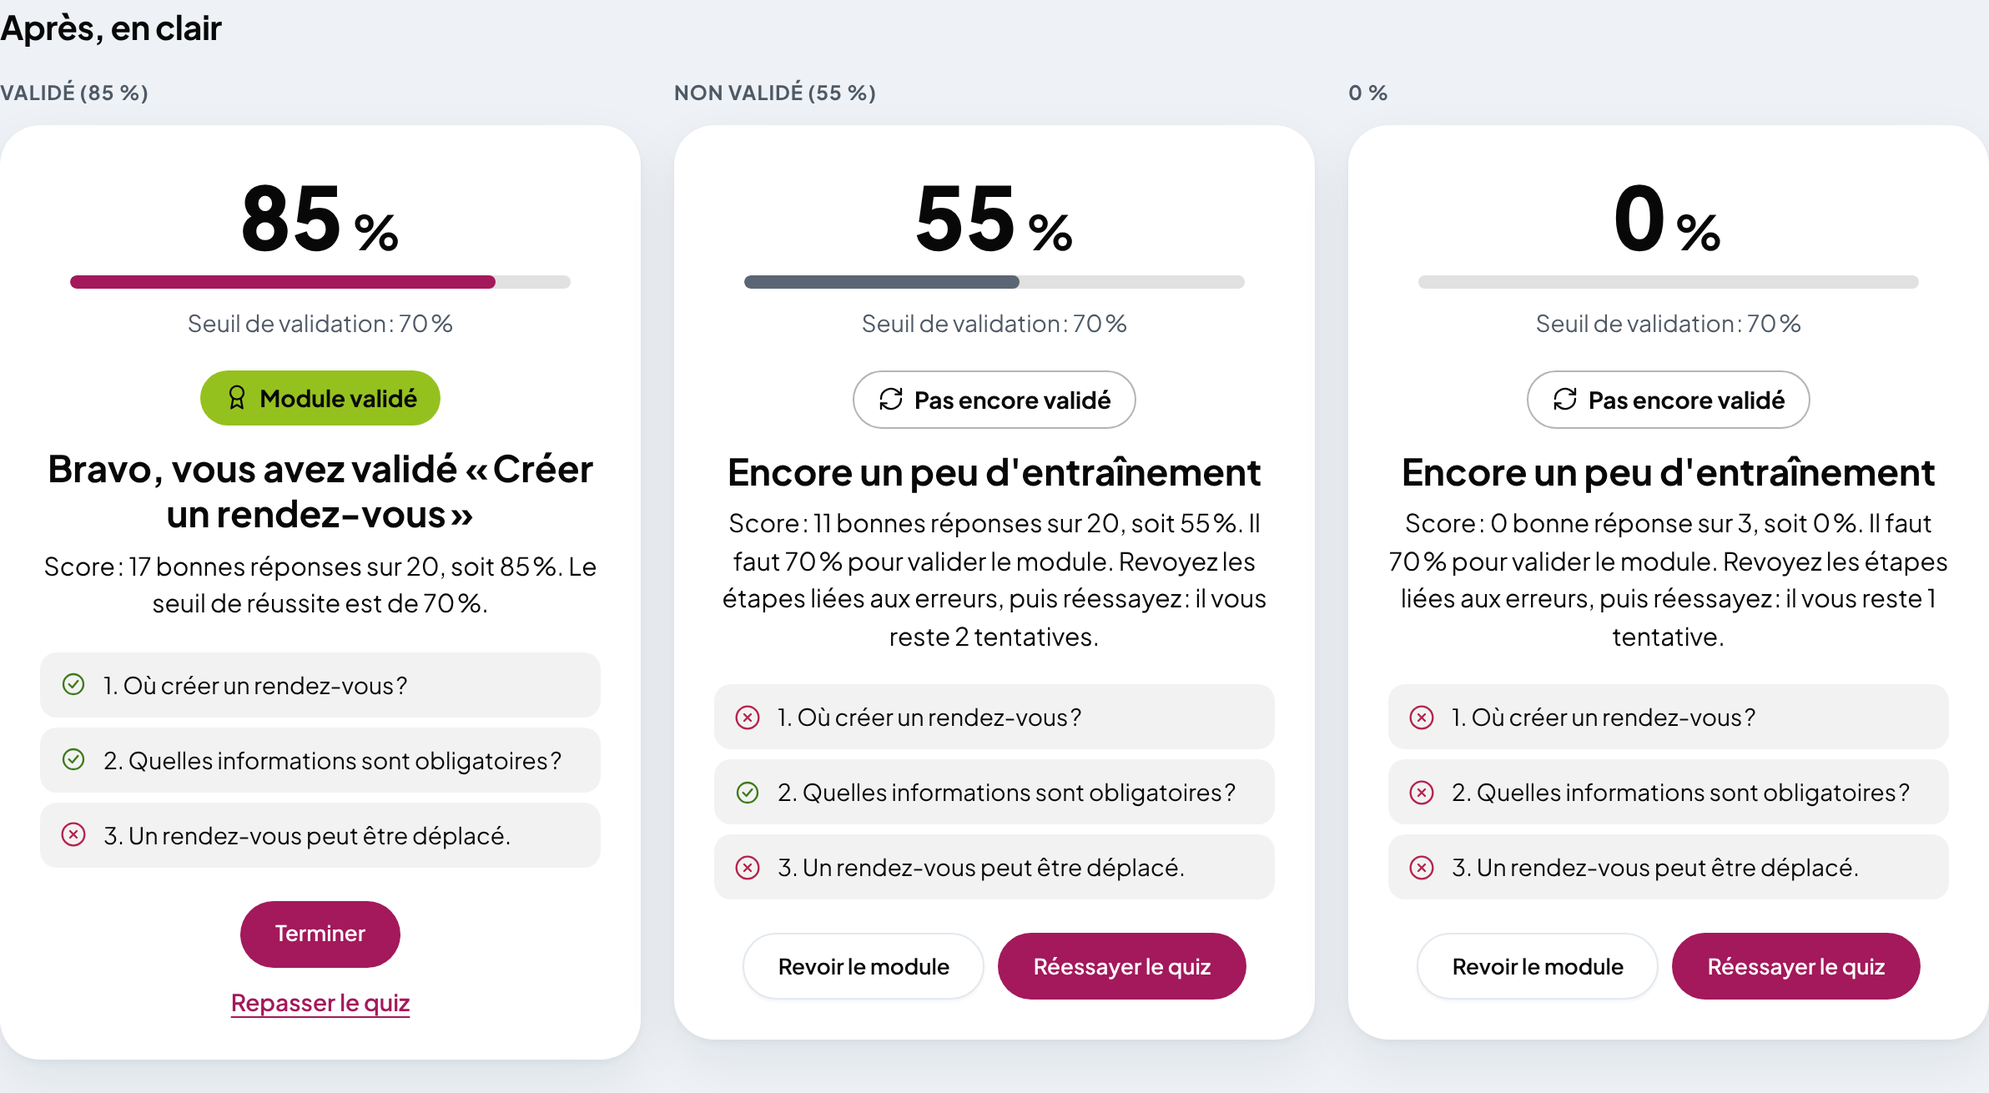
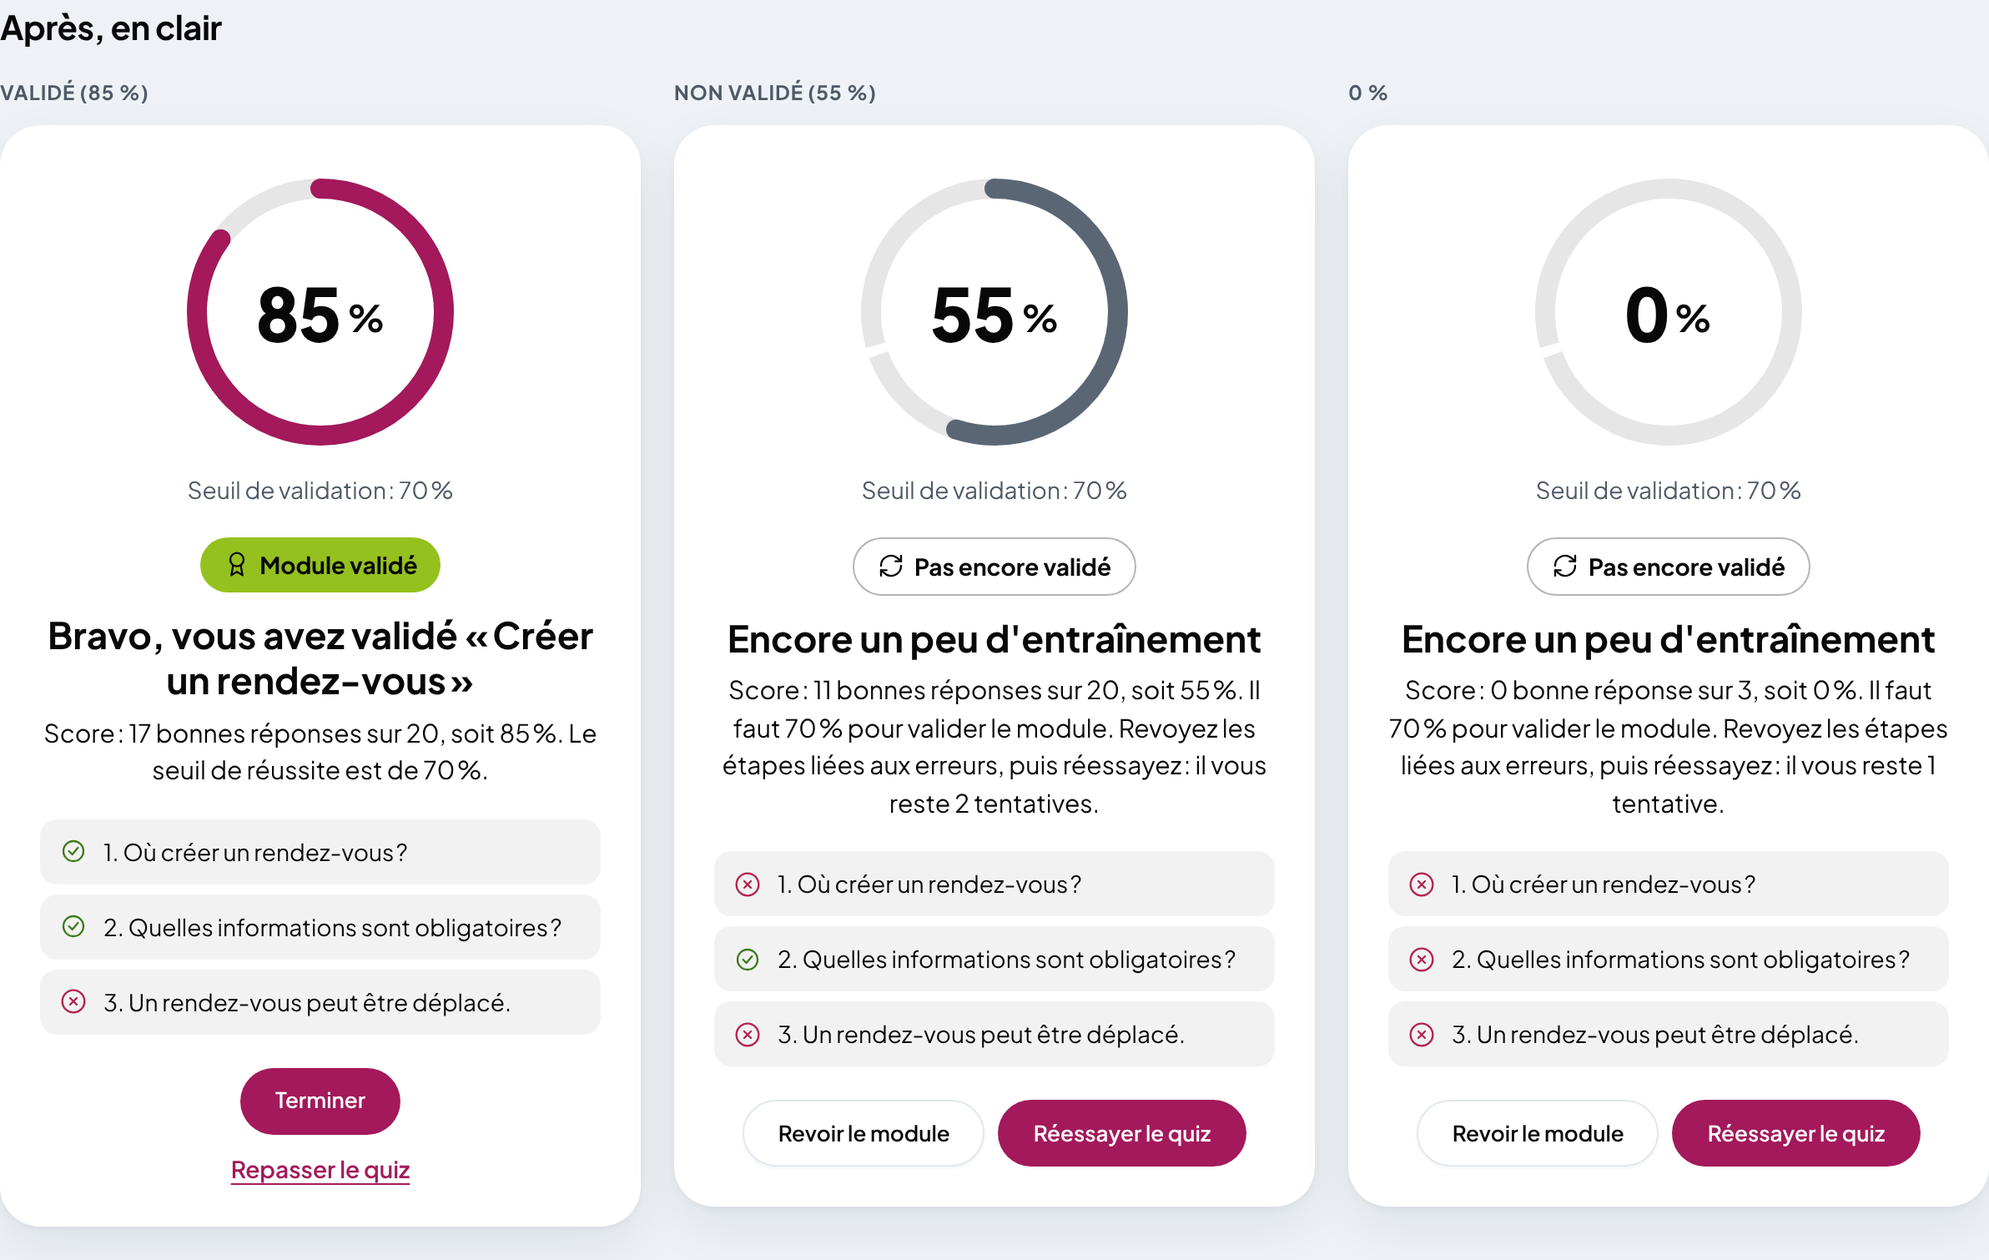
L42 révisé : le cercle de score est conservé et redessiné (arc arrondi, encoche du seuil dans la piste, seuil en texte, plus de trait noir)
Claude-Session: https://claude.ai/code/session_016yn81XNDaqi4emq7ho6CNv

diff --git a/docs/ux/maquettes/refonte/l42-score-quiz.html b/docs/ux/maquettes/refonte/l42-score-quiz.html
@@ -27,15 +27,18 @@
   /* ===== Composant proposé : carte de résultat du lecteur (p-quiz-result) ===== */
   .qr { background: var(--fd-color-surface); color: var(--fd-color-text); border-radius: 24px; box-shadow: var(--fd-shadow-md); padding: 28px 24px 24px; text-align: center; display: flex; flex-direction: column; align-items: center; gap: 0; }
   /* Bloc score : chiffre, barre fine, seuil en texte. Pas de cercle, pas de marqueur. */
-  .qs { width: min(300px, 100%); display: flex; flex-direction: column; align-items: center; gap: 10px; }
-  .qs__num { margin: 0; font-size: 52px; line-height: 1; font-weight: 800; letter-spacing: -.02em; font-variant-numeric: tabular-nums; }
-  .qs__num small { font-size: .55em; font-weight: 700; margin-left: .08em; }
-  .qs__bar { width: 100%; height: 8px; border-radius: 999px; background: color-mix(in srgb, var(--fd-color-text) 12%, transparent); overflow: hidden; }
-  .qs__bar > i { display: block; height: 100%; border-radius: 999px; background: #5b6675; }
-  .is-pass .qs__bar > i { background: var(--fd-color-primary); }
+  /* Anneau propre : piste et arc de 12 px, bouts arrondis, seuil = encoche dans la piste (pas de trait), seuil écrit dessous. */
+  .qs { display: flex; flex-direction: column; align-items: center; gap: 12px; }
+  .qs__ring { position: relative; width: 168px; height: 168px; }
+  .qs__ring svg { display: block; width: 100%; height: 100%; transform: rotate(-90deg); }
+  .qs__track { fill: none; stroke: color-mix(in srgb, var(--fd-color-text) 10%, transparent); stroke-width: 12; stroke-linecap: butt; }
+  .qs__arc { fill: none; stroke: #5b6675; stroke-width: 12; stroke-linecap: round; }
+  .is-pass .qs__arc { stroke: var(--fd-color-primary); }
+  [data-theme='dark'] .qs__arc { stroke: #A9B3BF; }
+  [data-theme='dark'] .is-pass .qs__arc { stroke: var(--fd-color-primary); }
+  .qs__num { position: absolute; inset: 0; display: flex; align-items: center; justify-content: center; margin: 0; font-size: 44px; line-height: 1; font-weight: 800; letter-spacing: -.02em; font-variant-numeric: tabular-nums; }
+  .qs__num small { font-size: .5em; font-weight: 700; margin: .35em 0 0 .08em; }
   .qs__meta { margin: 0; font-size: 14px; color: var(--fd-color-text-muted); }
-  [data-theme='dark'] .qs__bar > i { background: #A9B3BF; }
-  [data-theme='dark'] .is-pass .qs__bar > i { background: var(--fd-color-primary); }
   /* Reste de la carte : inchangé (badge, titre, phrase de score, récapitulatif, boutons) */
   .qb { display: inline-flex; align-items: center; gap: 6px; margin-top: 18px; padding: 6px 14px; border-radius: 999px; font-size: 14px; font-weight: 700; }
   .qb svg { width: 16px; height: 16px; }
@@ -51,10 +54,11 @@
   [data-theme='dark'] .ok { color: #9fd36a; } [data-theme='dark'] .ko { color: #f08aa6; }
   .acts { display: flex; flex-wrap: wrap; justify-content: center; gap: 8px; margin-top: 20px; }
   .lnk { margin-top: 10px; font-weight: 600; color: var(--fd-color-primary); text-decoration: underline; text-underline-offset: 3px; font-size: 14px; }
-  .phone { width: 390px; padding: 16px; border-radius: 28px; background: var(--fd-color-bg); border: 1px solid var(--fd-color-border); }
-  .phones { display: flex; flex-wrap: wrap; gap: 20px; align-items: flex-start; }
-  .phone .qr { padding: 24px 16px 20px; }
-  .phone .qs__num { font-size: 48px; }
+  .mob { width: 390px; padding: 16px; border-radius: 28px; background: var(--fd-color-bg); border: 1px solid var(--fd-color-border); }
+  .mobs { display: flex; flex-wrap: wrap; gap: 20px; align-items: flex-start; }
+  .mob .qr { padding: 24px 16px 20px; }
+  .mob .qs__ring { width: 144px; height: 144px; }
+  .mob .qs__num { font-size: 38px; }
   .notes { margin: 0; padding-left: 20px; color: var(--fd-color-text-muted); display: grid; gap: 6px; font-size: 14px; max-width: 900px; }
   @media (max-width: 1100px) { .row { grid-template-columns: 1fr; } }
 </style>
@@ -62,7 +66,7 @@
 <body>
 <main class="l42">
   <h1>L42 : score du quiz</h1>
-  <p>Le cercle et son trait noir de seuil sont remplacés par un grand score en chiffres, une barre horizontale fine sans marqueur, puis le seuil écrit en texte. Le badge, le titre et la phrase de score ne changent pas : la réussite ne dépend jamais de la couleur. Données fictives.</p>
+  <p>Le cercle est conservé mais redessiné : piste et arc de même épaisseur, bouts arrondis, seuil marqué par une simple encoche dans la piste (plus de trait noir) et écrit en texte sous le cercle. Le badge, le titre et la phrase de score ne changent pas : la réussite ne dépend jamais de la couleur. Données fictives.</p>
 
   <section class="sec" aria-labelledby="s0">
     <h2 id="s0">Avant</h2>
@@ -76,8 +80,7 @@
   <template id="tpl-pass">
     <article class="qr is-pass" aria-labelledby="__ID__">
       <div class="qs">
-        <p class="qs__num"><span class="sr-only">Votre score : </span>85<small>&#8239;%</small></p>
-        <div class="qs__bar" aria-hidden="true"><i style="width:85%"></i></div>
+        <div class="qs__ring" data-score="85" data-th="70"><svg viewBox="0 0 168 168" aria-hidden="true" focusable="false"></svg><p class="qs__num"><span class="sr-only">Votre score : </span>85<small>&#8239;%</small></p></div>
         <p class="qs__meta">Seuil de validation&#8239;: 70&#8239;%</p>
       </div>
       <span class="qb is-pass"><i data-icon="award"></i>Module validé</span>
@@ -91,8 +94,7 @@
   <template id="tpl-fail">
     <article class="qr" aria-labelledby="__ID__">
       <div class="qs">
-        <p class="qs__num"><span class="sr-only">Votre score : </span>55<small>&#8239;%</small></p>
-        <div class="qs__bar" aria-hidden="true"><i style="width:55%"></i></div>
+        <div class="qs__ring" data-score="55" data-th="70"><svg viewBox="0 0 168 168" aria-hidden="true" focusable="false"></svg><p class="qs__num"><span class="sr-only">Votre score : </span>55<small>&#8239;%</small></p></div>
         <p class="qs__meta">Seuil de validation&#8239;: 70&#8239;%</p>
       </div>
       <span class="qb is-fail"><i data-icon="refresh"></i>Pas encore validé</span>
@@ -105,8 +107,7 @@
   <template id="tpl-zero">
     <article class="qr" aria-labelledby="__ID__">
       <div class="qs">
-        <p class="qs__num"><span class="sr-only">Votre score : </span>0<small>&#8239;%</small></p>
-        <div class="qs__bar" aria-hidden="true"><i style="width:0"></i></div>
+        <div class="qs__ring" data-score="0" data-th="70"><svg viewBox="0 0 168 168" aria-hidden="true" focusable="false"></svg><p class="qs__num"><span class="sr-only">Votre score : </span>0<small>&#8239;%</small></p></div>
         <p class="qs__meta">Seuil de validation&#8239;: 70&#8239;%</p>
       </div>
       <span class="qb is-fail"><i data-icon="refresh"></i>Pas encore validé</span>
@@ -127,17 +128,18 @@
   </section>
   <section class="sec" aria-labelledby="s3">
     <h2 id="s3">Après, sur mobile (390 px)</h2>
-    <div class="phones" data-slot="mobile"></div>
+    <div class="mobs" data-slot="mobile"></div>
   </section>
 
   <section class="sec" aria-labelledby="s4">
     <h2 id="s4">Règles</h2>
     <ul class="notes">
-      <li>Le chiffre du score est toujours de la couleur du texte. La couleur de la barre ne fait que doubler le badge : prune si validé, ardoise sinon.</li>
-      <li>La barre n'a ni repère, ni graduation, ni trait. Le seuil n'existe qu'en texte : « Seuil de validation : 70 % ».</li>
-      <li>La barre est masquée aux lecteurs d'écran. Le chiffre est lu « Votre score : 85 % », puis le seuil, le badge, le titre et la phrase de score (zone d'état).</li>
-      <li>À 0 %, seule la piste de la barre est visible. Le chiffre « 0 % » reste en grand ; on n'affiche jamais « — ».</li>
-      <li>Sans animation de remplissage avec la réduction des animations ; sinon, un remplissage de 600 ms.</li>
+      <li>Anneau de 168 px (144 px sous 480 px) : piste et arc de 12 px, arc aux bouts arrondis, départ en haut, sens horaire. Aucun trait, aucune ombre, aucun dégradé.</li>
+      <li>Seuil : une encoche de 6 px <b>découpée dans la piste</b>, de la couleur du fond de la carte. Elle n'est visible que tant que le score ne l'a pas atteinte, car l'arc passe par-dessus. Le seuil est toujours écrit dessous : « Seuil de validation : 70 % ».</li>
+      <li>Le chiffre est toujours de la couleur du texte ; l'arc est prune si validé, ardoise sinon. Le résultat est porté par le badge et le titre, jamais par la couleur seule.</li>
+      <li>0 % : aucun arc (pas de point dû au bout arrondi). 100 % : cercle plein.</li>
+      <li>L'anneau est masqué aux lecteurs d'écran ; le chiffre est lu « Votre score : 85 % », puis le seuil.</li>
+      <li>Arc animé de 0 au score en 600 ms ; aucune animation avec la réduction des animations.</li>
     </ul>
   </section>
 </main>
@@ -147,10 +149,17 @@
     ['pass', 'fail', 'zero'].forEach((k, n) => {
       const html = document.getElementById('tpl-' + k).innerHTML.replace(/__ID__/g, `${slot}-${k}`);
       const label = ['Validé (85 %)', 'Non validé (55 %)', '0 %'][n];
-      el.insertAdjacentHTML('beforeend', wrap ? `<div class="phone"><span class="lab">${label}</span>${html}</div>` : `<div><span class="lab" style="display:block;margin-bottom:10px">${label}</span>${html}</div>`);
+      el.insertAdjacentHTML('beforeend', wrap ? `<div class="mob"><span class="lab">${label}</span>${html}</div>` : `<div><span class="lab" style="display:block;margin-bottom:10px">${label}</span>${html}</div>`);
     });
   };
   fill('light'); fill('dark'); fill('mobile', true);
+  document.querySelectorAll('.qs__ring').forEach((el) => {
+    const score = +el.dataset.score, th = +el.dataset.th, R = 74, C = 2 * Math.PI * R, G = 6;
+    const t = (th / 100) * C;
+    const track = `<circle class="qs__track" cx="84" cy="84" r="${R}" stroke-dasharray="${t - G / 2} ${G} ${C}" />`;
+    const arc = score > 0 ? `<circle class="qs__arc" cx="84" cy="84" r="${R}" stroke-dasharray="${score >= 100 ? C : (score / 100) * C} ${C}" />` : '';
+    el.querySelector('svg').innerHTML = track + arc;
+  });
 </script>
 </body>
 </html>

diff --git a/docs/ux/specs/l42-score-quiz.md b/docs/ux/specs/l42-score-quiz.md
@@ -1,7 +1,8 @@
 # L42 : présentation du score du quiz
 
-> Retour client : le cercle de score du résultat du quiz ne plaît pas, et le trait noir du seuil (70 %) est jugé incompréhensible et laid.
-> Il est remplacé par un **grand score en chiffres**, une **barre horizontale fine sans marqueur** et le **seuil écrit en texte**.
+> Retour client : le cercle de score du résultat du quiz était mal exécuté, et le trait noir du seuil (70 %) jugé incompréhensible et laid.
+> **Révision du 20 nov.** : le client veut **garder le cercle**, bien dessiné. Cette version remplace la proposition « barre horizontale » (e7517d7).
+> Le cercle est redessiné : piste et arc de même épaisseur, bouts arrondis, seuil marqué par une **encoche** dans la piste (sans trait) et **écrit en texte** sous le cercle.
 > Maquette avant/après : `docs/ux/maquettes/refonte/l42-score-quiz.html`. Captures : `docs/ux/maquettes/refonte/img/l42-*.png` (avant ; après en clair, en sombre et sur mobile ; cas validé, non validé et 0 %).
 > Données fictives.
 
@@ -9,33 +10,35 @@
 
 - **Lecteur, écran de résultat du quiz** (`apps/player/src/Quiz.tsx`, `svg.p-ring`) : c'est le **seul** endroit où le cercle existe aujourd'hui.
 - **Apprenants, centre de formation, attestation** : le score y est déjà écrit en texte (« 55 % », « Validé · 85 % », tableau de l'attestation). Rien ne change.
-  - Si un score y est un jour mis en forme avec son seuil, ce sera avec le même composant (§2), jamais avec un cercle.
+  - Si un score y est un jour mis en forme avec son seuil, ce sera avec le même composant (§2), avec le même anneau.
 - **Questionnaire** (sondage, sans score) : aucun bloc score, comme aujourd'hui.
 
-## 2. Bloc score (remplace `svg.p-ring`)
+## 2. Anneau de score (remplace l'actuel `svg.p-ring`)
 
-Il est centré en haut de la carte de résultat, sur une largeur de 300 px au plus (100 % sur mobile). De haut en bas :
+Il est centré en haut de la carte de résultat. De haut en bas :
 
-1. **Score** : `<p class="p-score__num">`.
-   - Contenu : « Votre score : » en texte masqué visuellement, puis le nombre, puis « % » ; exemple « 85 % ».
-   - Style : 52 px (48 px sous 480 px), graisse 800, chiffres tabulaires, couleur du texte `--p-text` **dans tous les cas**. La couleur ne porte jamais le résultat.
-   - Le signe « % » fait 55 % de la taille du nombre, précédé d'une espace fine insécable.
-2. **Barre** : `<div class="p-score__bar" aria-hidden="true"><i style="width:{{score}}%"></i></div>`.
-   - Hauteur 8 px, arrondi complet, marge de 10 px au-dessus et en dessous.
-   - Piste : `color-mix(in srgb, var(--p-text) 12%, transparent)`.
-   - Remplissage : couleur primaire du lecteur (`--p-primary`) si le module est validé ; ardoise `#5b6675` sinon (`#A9B3BF` en sombre).
-   - **Aucun repère, aucun trait, aucune graduation, aucune étiquette** sur la barre.
-   - À 0 %, seule la piste est visible, sans remplissage minimal.
-3. **Seuil** : `<p class="p-score__meta">`, contenant « Seuil de validation : {{threshold}} % ».
-   - Style : 14 px, `--p-text` à 72 %.
-   - Nouvelle clé i18n : `quiz.scoreThreshold` devient « Seuil de validation : {{value}} % » (en anglais : « Pass mark: {{value}}% »). L'ancienne « seuil {{value}} % » n'est plus utilisée.
+1. **Anneau** : 168 × 168 px (144 × 144 px sous 480 px), avec `viewBox="0 0 168 168"`, un rayon de 74 et `aria-hidden="true"`. Départ en haut, sens horaire (`rotate(-90deg)` sur le SVG).
+   - **Piste** : cercle de trait 12, `stroke-linecap: butt`, couleur `color-mix(in srgb, var(--p-text) 10%, transparent)`.
+   - **Encoche du seuil** : une coupure de 6 px **dans la piste**, à la position du seuil, obtenue par `stroke-dasharray="{t − 3} 6 {C}"` sur la piste, où `t = seuil/100 × C`.
+     - Pas de trait, pas de couleur ajoutée : le fond de la carte apparaît dans la coupure.
+     - L'arc est dessiné par-dessus : l'encoche disparaît dès que le score dépasse le seuil.
+   - **Arc** : trait 12, `stroke-linecap: round`, `stroke-dasharray="{score/100 × C} {C}"`.
+     - Couleur : `--p-primary` si le module est validé ; ardoise `#5b6675` sinon (`#A9B3BF` en sombre).
+   - **Supprimés** : `.p-ring__threshold` (le trait noir) et le texte « seuil 70 % » à l'intérieur de l'anneau.
+   - **Cas limites** : à 0 %, aucun arc n'est dessiné (pas de point dû au bout arrondi) ; à 100 %, le cercle est plein.
+2. **Score au centre** (texte HTML posé sur l'anneau, pas un `<text>` SVG) :
+   - « Votre score : » masqué visuellement, puis le nombre et « % » ;
+   - 44 px (38 px sous 480 px), graisse 800, chiffres tabulaires, couleur du texte **dans tous les cas** ;
+   - « % » à 50 % de la taille du nombre, précédé d'une espace fine insécable.
+3. **Seuil** : sous l'anneau, à 12 px, « Seuil de validation : {{threshold}} % » en 14 px, `--p-text` à 72 %.
+   - Clé i18n `quiz.scoreThreshold` : « Seuil de validation : {{value}} % » (en anglais : « Pass mark: {{value}}% »).
 
-Le reste de la carte ne change pas : le badge « Module validé » ou « Pas encore validé » (icône et texte), le titre, la phrase de score en `role="status"`, le récapitulatif et les boutons (L38 n° 14).
+Le reste de la carte ne change pas : badge, titre, phrase de score en `role="status"`, récapitulatif, boutons.
 
 ## 3. Animation
 
-- La barre se remplit de 0 au score en 600 ms (`cubic-bezier(.2,.7,.2,1)`), une seule fois à l'affichage.
-- Avec `prefers-reduced-motion: reduce`, la barre s'affiche directement à sa valeur.
+- L'arc se dessine de 0 au score en 600 ms (`stroke-dasharray`, `cubic-bezier(.2,.7,.2,1)`), une seule fois à l'affichage.
+- Avec `prefers-reduced-motion: reduce`, l'arc s'affiche directement à sa valeur.
 - Le chiffre n'est pas animé : pas de compteur qui défile.
 
 ## 4. Accessibilité
@@ -46,29 +49,30 @@ Le reste de la carte ne change pas : le badge « Module validé » ou « Pas enc
   3. le badge ;
   4. le titre (qui reçoit le focus, comme aujourd'hui) ;
   5. la phrase de score.
-- La barre est `aria-hidden` : elle double le chiffre. Pas de `role="progressbar"`, ce n'est pas une progression en cours.
-- Le résultat (validé ou non) est porté par le **badge** (icône et texte) et par le **titre**, jamais par la couleur de la barre seule.
+- L'anneau est `aria-hidden` : il double le chiffre. Pas de `role="progressbar"`, ce n'est pas une progression en cours.
+- Le résultat (validé ou non) est porté par le **badge** (icône et texte) et par le **titre**, jamais par la couleur de l'arc seule.
 - **Contrastes** :
   - chiffre et seuil : ceux du texte du lecteur ;
-  - remplissage contre piste, au moins 3:1 en clair et en sombre (mesuré) :
+  - arc contre piste, au moins 3:1 en clair et en sombre (mesuré, piste à 10 à 12 %) :
     - sur la piste claire (`#E1E1E1`) : primaire `#A3195B` 5,6:1, ardoise `#5b6675` 4,5:1 ;
     - sur la piste sombre (`#303339`) : `#A9B3BF` 6,0:1, primaire sombre `#CF86A9` 4,6:1.
-- **Thème du lecteur** (couleur primaire personnalisée) : si le contraste du remplissage contre la piste descend sous 3:1, utiliser la couleur du texte à 70 % (le même contrôle que pour les boutons).
+- **Thème du lecteur** (couleur primaire personnalisée) : si le contraste de l'arc contre la piste descend sous 3:1, utiliser la couleur du texte à 70 % (le même contrôle que pour les boutons).
 
 ## 5. Cas à couvrir (maquette)
 
 | Cas | Score | Barre | Badge | Titre |
 |---|---|---|---|---|
-| Validé | 85 % | 85 %, couleur primaire | « Module validé » | « Bravo, vous avez validé « … » » |
-| Non validé | 55 % | 55 %, ardoise | « Pas encore validé » | « Encore un peu d'entraînement » |
-| 0 % | 0 % | piste seule | « Pas encore validé » | « Encore un peu d'entraînement » |
-| 100 % | 100 % | pleine, couleur primaire | « Module validé » | idem Validé |
+| Validé | 85 % | arc à 85 %, couleur primaire (encoche recouverte) | « Module validé » | « Bravo, vous avez validé « … » » |
+| Non validé | 55 % | arc à 55 %, ardoise ; encoche visible à 70 % | « Pas encore validé » | « Encore un peu d'entraînement » |
+| 0 % | 0 % | piste seule, avec l'encoche | « Pas encore validé » | « Encore un peu d'entraînement » |
+| 100 % | 100 % | cercle plein, couleur primaire | « Module validé » | idem Validé |
 
 ## 6. Recette
 
 - Les 4 cas du §5, à 1 280 px et à 390 px, en clair et en sombre, ainsi que dans un lecteur à couleur primaire personnalisée.
-- Aucun élément `svg.p-ring` ni `.p-ring__threshold` dans le DOM.
+- Aucun élément `.p-ring__threshold` ni texte « seuil » dans l'anneau ; l'encoche n'apparaît que sous le seuil.
+- Netteté : à une densité de 1, 2 et 3, la piste et l'arc ont la même épaisseur, sans crénelage visible.
 - NVDA : la lecture suit l'ordre du §4 ; « Votre score : 55 % » est lu une seule fois.
 - `prefers-reduced-motion` : pas d'animation.
 - 200 % de zoom : le chiffre et le seuil restent lisibles, sans chevauchement.
-- Les tests e2e `quiz-player` sont mis à jour (le cercle n'existe plus ; le texte du seuil change).
+- Les tests e2e `quiz-player` sont mis à jour (le trait du seuil n'existe plus ; le texte du seuil change).
